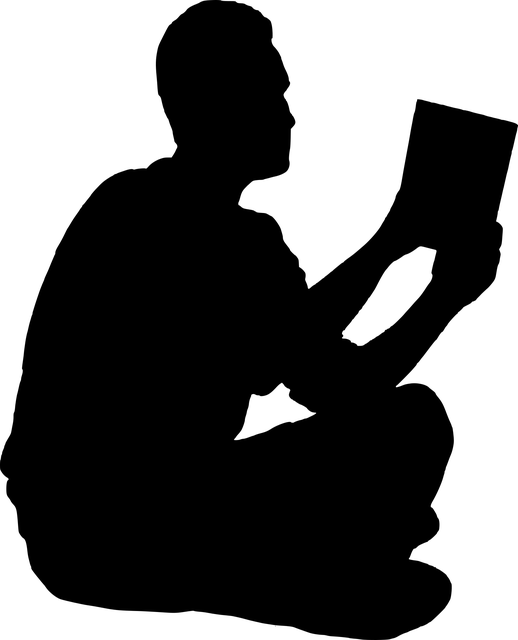
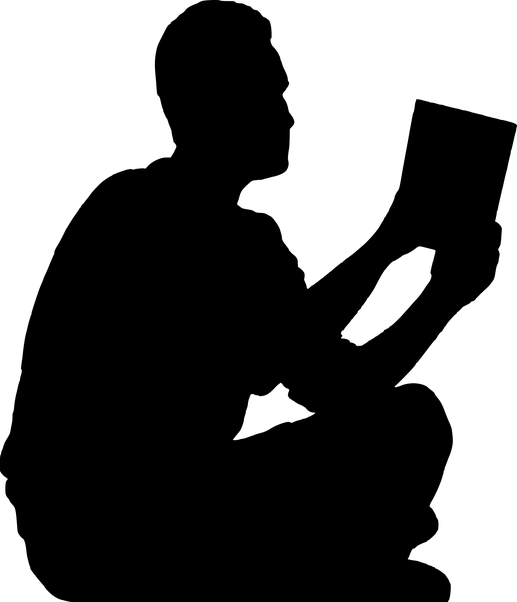
Add additional outline and split headers

diff --git a/projects.html b/projects.html
@@ -13,12 +13,12 @@
     <title>Research and Projects</title>
   </head>
   <style>
-    .header {
+    .headerProjects {
       background-image: linear-gradient(#00000050 0%, #000000af 100%),
       linear-gradient(315deg, #f7b42c 0%, #fc575e 74%);
       }
     @media (max-width: 50rem) {
-      .header{
+      .headerProjects{
       
       }
     }
@@ -36,12 +36,17 @@
         </li>
       </ul>
     </nav>
-    <header class="header">
+    <header class="headerProjects">
       <img
         src="images/wallpapers/readingOutline.png"
         alt="readingOutline"
-        class="header__outline__reader"
+        class="headerProjects__outline__reader"
       />
+      <img
+      src="images/wallpapers/thinkingOutline.png"
+      alt="thinkingOutline"
+      class="headerProjects__outline__thinker"
+    />
     </header>
     <main class="main__projeccts">
       <div class="container__projects">
@@ -63,7 +68,7 @@
         </div>
       </div>
       <div class="container__projects">
-      
+        <img class="container__projects-image" src="images/profilePicture.jpg" alt="" />
         <div class="container__projects-text">
           <h2>Quantum Electrodynamics with a Nonmoving Dielectric Sphere</h2>
           <br>
@@ -79,7 +84,6 @@
           in quos nihil alias? Cumque quae id tenetur sed ipsum cum recusandae consequuntur
           distinctio.
         </div>
-        <img class="container__projects-image" src="images/profilePicture.jpg" alt="" />
       </div>
       <div class="container__projects">
         <img class="container__projects-image" src="images/profilePicture.jpg" alt="" />
@@ -100,10 +104,27 @@
         </div>
       </div>
       <div class="container__projects">
+        <img class="container__projects-image" src="images/profilePicture.jpg" alt="" />
+        <div class="container__projects-text">
+          <h2>Ultrafocused Electromagnetic Field Pulses with a Hollow Cylindrical Waveguide</h2>
+          <br>
+          Lorem ipsum dolor sit amet consectetur adipisicing elit. Ullam, neque? Asperiores, et.
+          Nesciunt modi repellendus obcaecati vero corporis similique a libero. Eos magni animi rem,
+          quisquam quibusdam beatae modi ipsum! Quibusdam alias facere ipsum eligendi soluta maxime
+          asperiores suscipit. Provident veniam voluptas iusto alias porro consectetur voluptatem
+          assumenda sit fuga enim, magnam obcaecati tempore soluta debitis, pariatur, aspernatur
+          dolorem nihil. Veritatis doloribus facere distinctio quas tempora qui aperiam ipsam nihil
+          adipisci omnis nobis autem dolorem nam optio illum vero molestiae modi, nulla vitae
+          debitis suscipit itaque. Cumque eum in rerum? Dolorum dignissimos praesentium sed rem
+          quod, maiores explicabo numquam doloribus tenetur temporibus at quis, expedita, possimus
+          in quos nihil alias? Cumque quae id tenetur sed ipsum cum recusandae consequuntur
+          distinctio.
+        </div>
+      </div>
     </main>
     <footer class='footer'><img src="images/wallpapers/footerOutline.png" alt="footerOutline" class="footer__outline" />
       <div class="impressum">
-        <span class="impressum__contact">Patrick Maurer</span> |
+        <span class="impressum__contact">Contact</span> |
         <a href="#"><img src="images/logos/linkedInLogo.png" alt="linkedInLogo" /></a>|
         <a href="https://github.com/patrick-maurer"><img src="images/logos/githubLogo.png" alt="githubLogo" /></a>|
         <a href="https://orcid.org/0000-0002-0423-8898"> <img src="images/logos/orcidLogo.png" alt="githubLogo" /></a>|

diff --git a/style.css b/style.css
@@ -150,7 +150,7 @@ body {
     .impressum__datenschutz:hover {
       color: #ffefe2; }
 
-.header {
+.headerIndex {
   height: fit-content;
   background-size: cover;
   background-position: top;
@@ -161,20 +161,46 @@ body {
   align-items: center;
   padding-top: 10rem; }
   @media (max-width: 50rem) {
-    .header {
+    .headerIndex {
       height: fit-content; } }
-  .header__outline {
+  .headerIndex__outline {
     width: 100vw;
     position: relative;
     left: 0;
     bottom: 0;
     transform: translate(0, 0.1rem); }
-  .header__outline__reader {
+  .headerIndex__outline__reader {
     width: 10vw;
     padding-top: 5rem;
     position: relative;
-    left: -40% !important;
+    left: -30% !important;
     top: 1rem !important; }
+  .headerIndex__outline__thinker {
+    width: 10vw;
+    padding-top: 0rem;
+    position: relative;
+    right: -40%; }
+
+.headerProjects {
+  height: fit-content;
+  background-size: cover;
+  background-position: top;
+  position: relative;
+  display: flex;
+  justify-content: space-between;
+  align-items: flex-end;
+  padding-top: 10rem; }
+  @media (max-width: 50rem) {
+    .headerProjects {
+      height: fit-content; } }
+  .headerProjects__outline__reader {
+    width: 10vw;
+    position: relative;
+    left: 10%; }
+  .headerProjects__outline__thinker {
+    width: 10vw;
+    position: relative;
+    right: 10%; }
 
 .nav {
   width: 100%;
@@ -278,8 +304,8 @@ body {
       flex-direction: column;
       position: relative; } }
   .index__container-image {
-    height: 15rem;
-    width: 15rem;
+    height: 12rem;
+    width: 12rem;
     margin: auto 2rem;
     padding: 1rem;
     border-radius: 50%; }
@@ -313,7 +339,7 @@ body {
   color: #ffefe2;
   display: flex; }
   .container__projects-image {
-    height: 15rem;
+    height: 12rem;
     margin: auto 0;
     padding: 1rem;
     border-radius: 2rem;
@@ -323,22 +349,20 @@ body {
     padding: 2rem 1rem; }
     .container__projects-text h2 {
       text-align: left; }
+  .container__projects:nth-last-of-type(2n) {
+    flex-direction: row-reverse; }
 
-@media (max-width: 46.25em) {
+@media (max-width: 50rem) {
   .main__projects {
     font-size: 0.9rem;
     margin-bottom: 3rem; }
   .container__projects {
     margin: 3rem;
     color: #ffefe2;
-    display: flex;
-    flex-direction: column; }
+    flex-direction: column !important; }
     .container__projects-image {
       width: 10rem;
       margin: 0 auto;
       height: auto; }
     .container__projects-text {
-      text-align: justify;
-      padding: 3rem 1rem; }
-  .container__projects:nth-of-type(2) {
-    flex-direction: column-reverse; } }
+      padding: 3rem 1rem; } }

diff --git a/sass/layout/_header.scss b/sass/layout/_header.scss
@@ -1,4 +1,4 @@
-.header {
+.headerIndex {
   height: fit-content;
   background-size: cover;
   background-position: top;
@@ -13,10 +13,6 @@
     height: fit-content;
   }
 
-  // @include respond(large) {
-  //   height: 70rem;
-  // }
-
   &__outline {
     width: 100vw;
     position: relative;
@@ -29,8 +25,48 @@
     width: 10vw;
     padding-top: 5rem;
     position: relative;
-    left: -40% !important;
+    left: -30% !important;
     top: 1rem !important;
+    @include respond(small) {
+    }
+  }
+
+  &__outline__thinker {
+    width: 10vw;
+    padding-top: 0rem;
+    position: relative;
+    right: -40%;
+    @include respond(small) {
+    }
+  }
+}
+
+.headerProjects {
+  height: fit-content;
+  background-size: cover;
+  background-position: top;
+  position: relative;
+  display: flex;
+  justify-content: space-between;
+  align-items: flex-end;
+  padding-top: 10rem;
+
+  @include respond(small) {
+    height: fit-content;
+  }
+
+  &__outline__reader {
+    width: 10vw;
+    position: relative;
+    left: 10%;
+    @include respond(small) {
+    }
+  }
+
+  &__outline__thinker {
+    width: 10vw;
+    position: relative;
+    right: 10%;
     @include respond(small) {
     }
   }

diff --git a/index.html b/index.html
@@ -13,7 +13,7 @@
     <title>patrickmaurer.at</title>
   </head>
   <style>
-    .header {
+    .headerIndex {
       background-image: linear-gradient(#00000080 0%, #00000080 100%),
         linear-gradient(315deg, #f7b42c 0%, #fc575e 74%);
     }
@@ -33,7 +33,7 @@
         </li>
       </ul>
     </nav>
-    <header class="header">
+    <header class="headerIndex">
       <div class="fader">
         <div class="fader__firstline">Hi there, my name is Patrick.</div>
         <div class="fader__secondline">
@@ -42,8 +42,8 @@
       </div>
       <img
         src="images/wallpapers/headerOutline.png"
-        alt="headerOutline"
-        class="header__outline"
+        alt="headerIndexOutline"
+        class="headerIndex__outline"
       />
     </header>
     <main class="index__main">
@@ -78,7 +78,7 @@
         class="footer__outline"
       />
       <div class="impressum">
-        <span class="impressum__contact">Patrick Maurer</span>|
+        <span class="impressum__contact">Contact</span>|
         <a href="#"
           ><img src="images/logos/linkedInLogo.png" alt="linkedInLogo" /></a
         >|

diff --git a/sass/pages/_projects.scss b/sass/pages/_projects.scss
@@ -11,7 +11,7 @@
   display: flex;
 
   &-image {
-    height: 15rem;
+    height: 12rem;
     margin: auto 0;
     padding: 1rem;
     border-radius: 2rem;
@@ -26,9 +26,13 @@
       text-align: left;
     }
   }
+
+  &:nth-last-of-type(2n) {
+    flex-direction: row-reverse;
+  }
 }
 
-@media (max-width: 46.25em) {
+@media (max-width: 50rem) {
   .main__projects {
     font-size: 0.9rem;
     margin-bottom: 3rem;
@@ -36,8 +40,7 @@
   .container__projects {
     margin: 3rem;
     color: $color-primary;
-    display: flex;
-    flex-direction: column;
+    flex-direction: column !important;
 
     &-image {
       width: 10rem;
@@ -45,11 +48,7 @@
       height: auto;
     }
     &-text {
-      text-align: justify;
       padding: 3rem 1rem;
     }
-  }
-  .container__projects:nth-of-type(2) {
-    flex-direction: column-reverse;
   }
 }

diff --git a/script.js b/script.js
@@ -3,14 +3,14 @@
 // elements
 const nav = document.querySelector('.nav')
 const fadeBox = document.querySelector('.fader__textbox')
-const headerImg = document.querySelector('.header')
+const headerImg = document.querySelector('header')
 const contact = document.querySelector('.impressum__contact')
 
 // expand contact
 contact.addEventListener('click', function () {
-  if (contact.textContent == 'Patrick Maurer') {
-    contact.textContent = 'contactDetails'
-  } else contact.textContent = 'Patrick Maurer'
+  if (contact.textContent == 'Contact') {
+    contact.textContent = 'maurerpatrick@protonmail.com'
+  } else contact.textContent = 'Contact'
 })
 
 // fadeBox

diff --git a/sass/pages/_index.scss b/sass/pages/_index.scss
@@ -31,8 +31,8 @@
   }
 
   &-image {
-    height: 15rem;
-    width: 15rem;
+    height: 12rem;
+    width: 12rem;
     margin: auto 2rem;
     padding: 1rem;
     border-radius: 50%;
